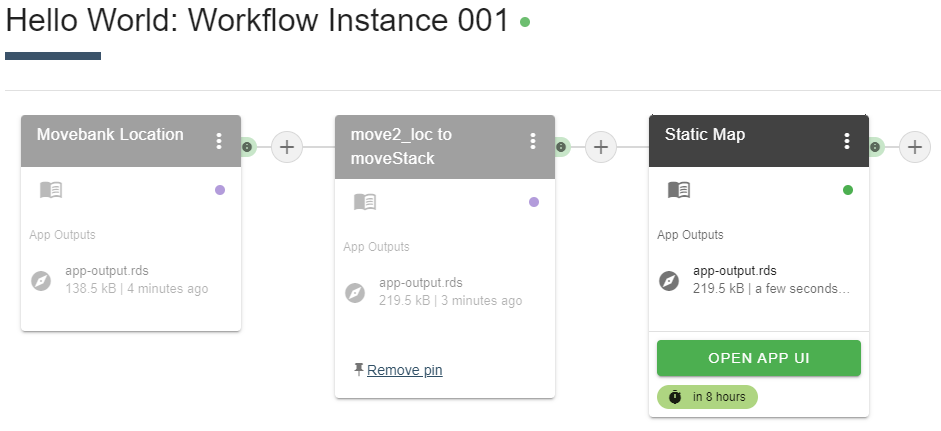
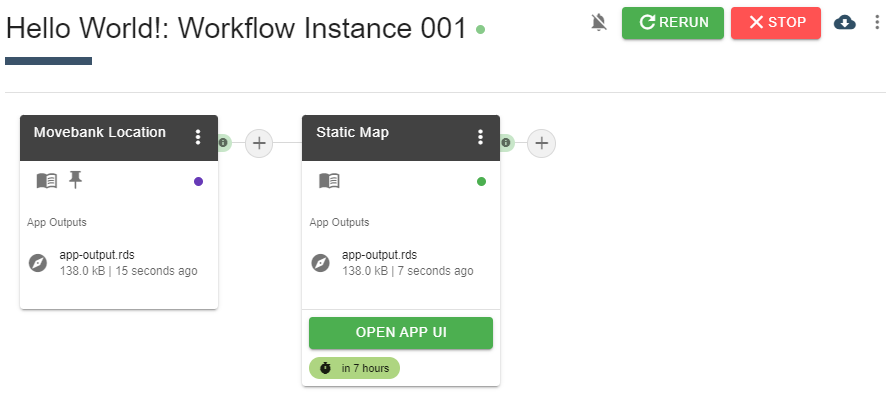
Updates to hello_world_workflow.md

diff --git a/hello_world_workflow.md b/hello_world_workflow.md
@@ -4,7 +4,11 @@ Please follow the instructions below and create your first running Workflow on M
 In the instructions below, buttons on the website are shown in `orange`.
 
 ## Download your data from Movebank
-From the main menu in your `Dashboard`, select `Workflows` and then `Create New Workflow`. After providing a name for the Workflow, you will be asked to `Select A Data Source`. Choose `Movebank Location` and provide your [Movebank](https://www.movebank.org) login details.
+From the main menu in your `Dashboard`, select `Workflows` and then `Create New Workflow`. 
+
+<kbd>![](files/Dashboard_Workflow.png 'size=600x')
+
+After providing a name for the Workflow, you will be asked to `Select A Data Source`. Choose `Movebank Location` and provide your [Movebank](https://www.movebank.org) login details.
 
 <kbd>![](files/HelloWorld_selectDataSource.png ':size=700x')</kbd>
 
@@ -15,20 +19,18 @@ For this example let us select the public study `Migration timing in white-front
 
 For shorter run times in this example let us select data of only two animals, say 700 and 712. As the data sets are not very dense, for now a time range selection is not necessary. Select `Finish` in the final Overview window. Your first Workflow, made up of one App, is now available for running.
 
-If you like, go ahead and click on `Start Workflow` on the top right and, after the run is finished, explore the downloaded data (Output Details) in the `Cargo Agent`, which can be accessed via the small green circle appearing on the right side of the App Container (red arrow) once the run is finished. Explore the coloured dots (by hovering over them) that indicate the status of each App's performance (blue arrow). On the right side of the Workflow name there is also a action point which will indicate if the workflow instance is "running" or "stopped" (yellow arrow). Note that if the workflow contains a Shiny App its status will always be "running", also after finishing, in order to allow the interaction with the App UI.
+<kbd>![](files/Hello_world_workflow.png ':size=400x')</kdb>
+
+If you like, go ahead and click on `> Start` at the top right and, after the run is finished, explore the downloaded data (Output Details) in the `Cargo Agent`, which can be accessed via the small green circle appearing on the right side of the App Container (red arrow) once the run is finished. Explore the coloured dots (by hovering over them) that indicate the status of each App's performance (blue arrow). On the right side of the Workflow name there is also a action point which will indicate if the Workflow instance is "running" or "stopped" (yellow arrow). Note that if the Workflow contains a Shiny App its status will always be "running", also after finishing, in order to allow the interaction with the App User Interface (UI).
 
 <kbd>![](files/HelloWorld_MoveApps_CargoAgent.png ':size=900x')</kbd>
 
 ## Plot your positions in a Shiny User Interface
-Now you add an App to visualise the downloaded data. Let us stay simple and use the visualisation App `Static Map`. From the main menu in your `Dashboard`, select `App Browser` and search for the App. This App requires the input data type `moveStack`. 
+Now you add an App to visualise the downloaded data. Let us stay simple and use the visualisation App `Static Map`. Click on the `+` next to the first App Container to select an App that would analyse or visualise the downloaded data and search for the `Static Map` App.
 
-<kbd>![](files/HelloWorld_AppBrowser.png ':size=800x')</kbd>
+<kbd>![](files/HelloWorld_ChooseApp.png ':size=800x')</kbd>
 
-Now go back to the Workflow and click on the `+` next to the first App Container to select an App that would analyse or visualise the downloaded data. The `Movebank Location` App (our first App) has the output data type `move2_loc`, meaning that a `Translator` App is required. `Install` the App move2_loc to moveStack.
-
-<kbd>![](files/HelloWorld_TranslatorApp.png ':size=800x')</kbd>
-
-Now click on the `+` next to the Translator App Container and `Install` the App Static Map. Now you can `Start Workflow` and `Open App UI` once everything has finished. To reduce run time you can use `Pin to this App` in the Movebank Location App or in the Translator App, which will block it from running again, in case you have let it run before.
+Now `Install` the App Static Map. Now you can `> Start` the Workflow and `Open App UI` once everything has finished. To reduce run time you can use `Pin to this App` in the Movebank Location App, which will block it from running again, in case you have let it run before.
 
 <kbd>![](files/HelloWorld_OpenAppUI.png ':size=600x')</kbd>
 
